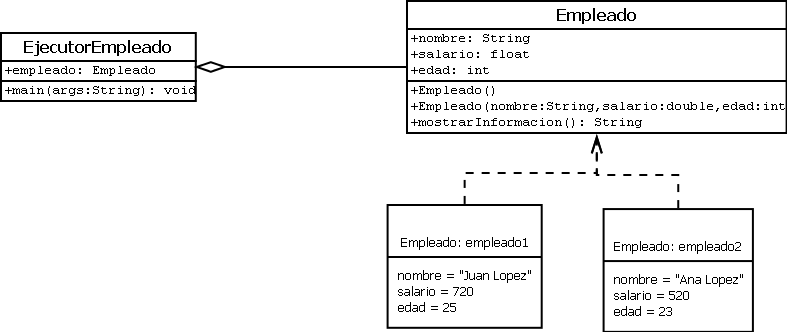
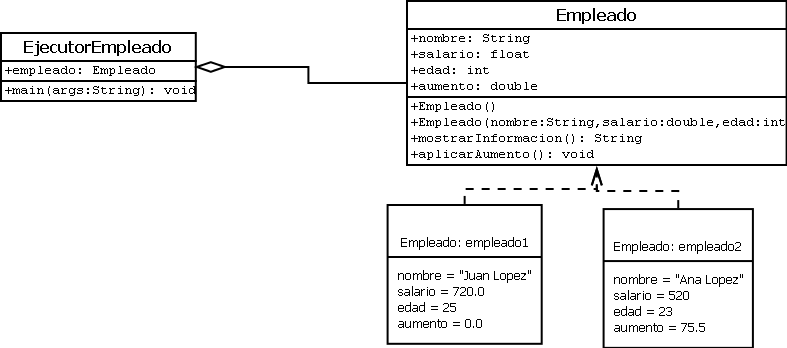
Last commit

diff --git a/Solucion_Codigo/ProyectoTaller4/src/Problema2_EjecutorEmpleado.java b/Solucion_Codigo/ProyectoTaller4/src/Problema2_EjecutorEmpleado.java
@@ -33,7 +33,6 @@ public class Problema2_EjecutorEmpleado {
             }
             switch (opcion) {
                 case 1 -> {
-
                     while (seleccion == 's') {
                         String nombreEm = nombres[(int) Math.floor(Math.random() * nombres.length)] + " " + apellidos[(int) Math.floor(Math.random() * apellidos.length)];
                         double salarioEm = salarios[(int) Math.floor(Math.random() * salarios.length)];
@@ -41,12 +40,12 @@ public class Problema2_EjecutorEmpleado {
                         arreglonombres.add(nombreEm);
                         arreglosalario.add(salarioEm);
                         arregloage.add(edadEm);
-                        Empleado empleado = new Empleado(nombreEm, salarioEm, edadEm);
+                        Empleado empleado = new Empleado(nombreEm, salarioEm, edadEm); // aumento inicia en 0
                         System.out.println("Empleado ingresado: " + empleado.mostrarInformacion());
                         System.out.print("Desea agregar otro empleado? (s/n): ");
                         seleccion = sc.next().charAt(0);
                     }
-
+                    seleccion = 's'; // reset para próxima vez
                 }
 
                 case 2 -> {
@@ -68,29 +67,28 @@ public class Problema2_EjecutorEmpleado {
                         System.out.print("Ingrese el porcentaje de aumento: ");
                         double porcentajedeAumento = sc.nextDouble();
                         sumasalarios = 0;
+
                         for (int i = 0; i < arreglosalario.size(); i++) {
-                            sumasalarios = sumasalarios + arreglosalario.get(i);
+                            sumasalarios += arreglosalario.get(i);
                         }
                         double promediosalarios = sumasalarios / arreglosalario.size();
+                        empleadosCambioSalario = "";
+
                         for (int i = 0; i < arreglosalario.size(); i++) {
-                            if (arreglosalario.get(i) < promediosalarios) {
-                                double nuevoSalario = arreglosalario.get(i) + (arreglosalario.get(i) * (porcentajedeAumento / 100));
-                                arreglosalario.set(i, nuevoSalario);
-                                Empleado empleado = new Empleado(arreglonombres.get(i), nuevoSalario, arregloage.get(i));
+                            Empleado empleado = new Empleado(arreglonombres.get(i), arreglosalario.get(i), arregloage.get(i));
+                            if (empleado.getSalario() < promediosalarios) {
+                                empleado.aplicarAumento(porcentajedeAumento);
+                                arreglosalario.set(i, empleado.getSalario());
                                 empleadosCambioSalario += empleado.mostrarInformacion() + "\n";
                             }
                         }
-                        System.out.println("Empleados Cambio de salario: \n" +empleadosCambioSalario );
-                        
+                        System.out.println("Empleados Cambio de salario: \n" + empleadosCambioSalario);
                     }
                 }
-                
-                default -> {
-                    System.out.println("Gracias por usar nuestor Programa");
-                }
+                case 4 ->
+                    System.out.println("Gracias por usar nuestro Programa");
             }
         } while (opcion != 4);
-
     }
 
 }
@@ -98,19 +96,37 @@ public class Problema2_EjecutorEmpleado {
 class Empleado {
 
     public String nombre;
-    public double salario;
+    private double salario;
     public int edad;
+    public double aumento;
 
-    public Empleado() {}
+    public Empleado() {
+    }
 
     public Empleado(String nombre, double salario, int edad) {
         this.nombre = nombre;
         this.salario = salario;
         this.edad = edad;
+
+    }
+
+    public double getSalario() {
+        return salario;
+    }
+
+    public void aplicarAumento(double porcentaje) {
+        double aumentoCalculado = salario * (porcentaje / 100);
+        salario += aumentoCalculado;
+        aumento = aumentoCalculado;
     }
 
     public String mostrarInformacion() {
-        return "Empleado{" + "nombre=" + nombre + ", salario=" + salario + ", edad=" + edad + '}';
+        return "Empleado{"
+                + "nombre=" + nombre
+                + ", salario=" + String.format("%.2f", salario)
+                + ", edad=" + edad
+                + ", aumento=" + String.format("%.2f", aumento)
+                + '}';
     }
 
 }
